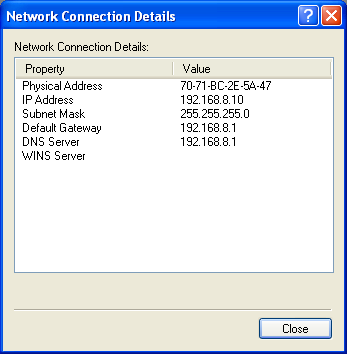
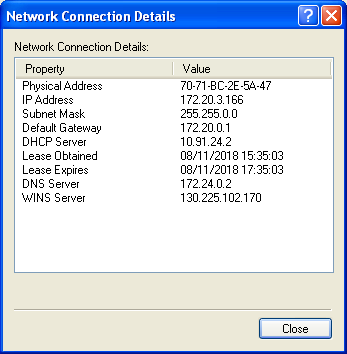
Change documentation to reflect the use of the magnetlab PC

diff --git a/Plotting.md b/Plotting.md
@@ -1,13 +1,13 @@
 # Automated plotting of logged data
 
-The Windows PC runs a group of LabView programs that control the dilution refrigerator and log the magnet temperatures as well as the DR pressures and temperatures.
+The ```LeidenDR``` Windows PC runs a group of LabView programs that control the dilution refrigerator and log the magnet temperatures as well as the DR pressures and temperatures.
 On the machine is also a LabView program to visualize the data saved to the log files, but I wanted a way to follow the status of the equipment without being in the lab.
 
-My solution is to use the Raspberry Pi (which can access both the PC and the internet, see [Network setup](NetworkSetup.md)) to automatically copy the logged data off the PC, plot it, and upload it to my website on the NBI server.
+My solution is to use the ```magnetlab``` Linux PC to automatically copy the logged data off the Windows PC, plot it, and upload it to my website on the NBI server.
 
 ## Mounting the shared folder from the Windows PC
 
-I have mounted the shared folder in ```/mnt/magnetlogs/```.
+I have mounted the shared folder in ```/mnt/suceptometry/```.
 This is described in [Network setup](NetworkSetup.md).
 
 ## Copying the data
@@ -15,7 +15,7 @@ This is described in [Network setup](NetworkSetup.md).
 Before plotting the data, I copy the logs from the network folder to the local drive
 
 ```bash
-rsync -avuh /mnt/magnetlogs/MMTest/* /home/pi/Data/Logfiles/
+rsync -avuh /mnt/susceptometry/* /home/mathias/Data/Logfiles/
 ```
 
 and use the local copy for the plotting.
@@ -23,9 +23,9 @@ and use the local copy for the plotting.
 I then copy the newest versions of each log file from ```Data/Logfiles/``` to ```Data/```, renaming them, so the plotting script can always find the files under their expected names:
 
 ```bash
-cp -p "`ls -dtr1 /home/pi/Data/Logfiles/*Magnet.logtext | tail -1`" /home/pi/Data/magnetTemperatures.txt
-cp -p "`ls -dtr1 /home/pi/Data/Logfiles/*DR.log | tail -1`" /home/pi/Data/DRlog.txt
-cp -p "`ls -dtr1 /home/pi/Data/Logfiles/*.dat | tail -1`" /home/pi/Data/DRtemps.txt
+cp -p "`ls -dtr1 /home/mathias/Data/Logfiles/*Magnet.logtext | tail -1`" /home/mathias/Data/magnetTemperatures.txt
+cp -p "`ls -dtr1 /home/mathias/Data/Logfiles/*DR.log | tail -1`" /home/mathias/Data/DRlog.txt
+cp -p "`ls -dtr1 /home/mathias/Data/Logfiles/*.dat | tail -1`" /home/mathias/Data/DRtemps.txt
 ```
 
 This makes use of ```ls``` to get the name of the newest file matching a given pattern.
@@ -38,7 +38,7 @@ I use [gnuplot](http://gnuplot.info) for plotting and have made separate scripts
 [plotDRlog.plt](Scripts/plotDRlog.plt) plots the pressures in the helium system.
 [plotDRtemps.plt](Scripts/plotDRtemps.plt) plots the temperatures different places in the dilution refrigerator.
 
-The output of these scripts are PNG files that are placed in the folder ```/home/pi/Data/Plots/```.
+The output of these scripts are PNG files that are placed in the folder ```/home/mathias/Data/Plots/```.
 
 ## Uploading to the website
 
@@ -50,7 +50,7 @@ The plots can also be seen in [this markdown file](ShowPlots.md).
 After all figures are generated, I upload them to the website using
 
 ```bash
-rsync -vh /home/pi/Data/Plots/*.png myon:public_html/Figures/
+rsync -vh /home/mathias/Data/Plots/*.png myon:public_html/Figures/
 ```
 
 where ```myon``` is the name I have given the server in my ```.ssh/config/``` file where I also specify the username.
@@ -106,22 +106,27 @@ runAll.sh finished on: 2018-09-06 11:30:57
 
 ## Cronjob
 
-In the crontab on the Pi, i have added the line
+In the crontab on ```magnetlab```, i have added the line
 
 ```crontab
-*/10 * * * * /home/pi/Data/runAll.sh > /home/pi/Data/cronLog.txt
+0 * * * * /home/mathias/Data/runAll.sh > /home/mathias/Data/cronLog.txt
 ```
 
-which runs ```runAll.sh``` every ten minutes, and saves the output to ```cronLog.txt```, overwriting the file each time.
+which runs ```runAll.sh``` every hour, and saves the output to ```cronLog.txt```, overwriting the file each time.
 
 For this to work properly, I have made sure to give absolute paths in all scripts and commands.
+
+## Teminal multiplexer
+
+I have started a tmux session by the name of ```plotting``` with two panes.
+In the left pane, I am running ```tail -f /home/mathias/Data/cronLog.txt``` and the right one is free to run commands.
 
 ## Copying the newest plots
 
 If I want to follow the logs directly on another machine, I can run
 
 ```bash
-rsync pi@kepler:Data/Plots/*.png .
+rsync mathias@lab:Data/Plots/*.png .
 ```
 
 to copy the figures to the current folder.

diff --git a/NetworkSetup.md b/NetworkSetup.md
@@ -1,36 +1,22 @@
 # Network setup
 
 The computer that reads out data from the magnet cryostat and the DR runs Windows XP.
-But since everything runs smoothly in Labview on that machine, I don't want to replace it right away (it has much higher priority to set up a computer for controlling the magnetic field and the susceptometer).
-I have therefore bought a Raspberry Pi 3 B+, and plan to connect it to both the KU network and a LAN especially for the Pi and the PC, such that the Pi is the only machine connected to the internet.
-This LAN might also be used for the (as yet nonexisting) controller PC, since it may be an advantage to defer updates, so you don't have to reboot in the middle of an experiment, and that is safer with an airgap to the internet.
-
-## The LAN
-
-There is no reliable WiFi connection available in the lab (Eduroam relies on a specific person's identity and is not well suited for this purpose), so I have decided to set up a wireless router (with nothing on the WAN side) and use that for the lab LAN.
-The PC will be connected by cable.
-
-I set up the Windows PC with the static IP address ```192.168.8.10```, which is outside the range of IPs that the router assigns.
-The router itself has the IP ```192.168.8.1``` and it assigned ```192.168.8.100``` to the Pi.
+But since everything runs smoothly in Labview on that machine, there is no reason to replace it, and the NBI IT department has OK'ed keeping it running on Windows XP.
+I therefore continue to use that machine, and have connected it to the NBI internal network by an ethernet cable and it has been assigned the IP ```172.20.3.166```.
 
 ![The network setup on the Windows PC](Figures/NetworkSetup.png)
 
 ## Samba
 
-The Windows PC shares a number of folders, and I can access them on the Pi by pointing my file browser to ```smb://192.168.8.10/```.
+The Windows PC shares a number of folders, and I can access them on the other NBI PCs by pointing my file browser to ```smb://172.20.3.166/```.
 The folder I use for my logs is ```C:\Suceptometry```, and it is shared under the name ```Suceptometry```.
-I mount that folder in the Pi filesystem with the command
+I mount that folder in a Linux filesystem using the command
 
 ```bash
-sudo mount -t cifs //192.168.8.10/Suceptometry /mnt/suceptometry -o user=username,pass=password,dom=domain,vers=1.0
+sudo mount -t cifs //172.20.3.166/Suceptometry /mnt/suceptometry -o user=username,pass=password,dom=domain,vers=1.0
 ```
 
 which I saved in the bash script ```mountShare.sh```.
 The option ```vers=1.0``` is important since the standard is a newer version, but Windows XP uses the old 1.0.
 
-I would like to automatically mount the shared folder using the fstab on the Pi, but I haven't implemented that yet.
-
-## NTP
-
-To syncronize the clocks on the machines, I might set up the Pi as an NTP server:
-[NTP client and server](http://raspberrypi.tomasgreno.cz/ntp-client-and-server.html)
+I would like to automatically mount the shared folder using the fstab on the ```magnetlab``` PC, but I haven't implemented that yet.
